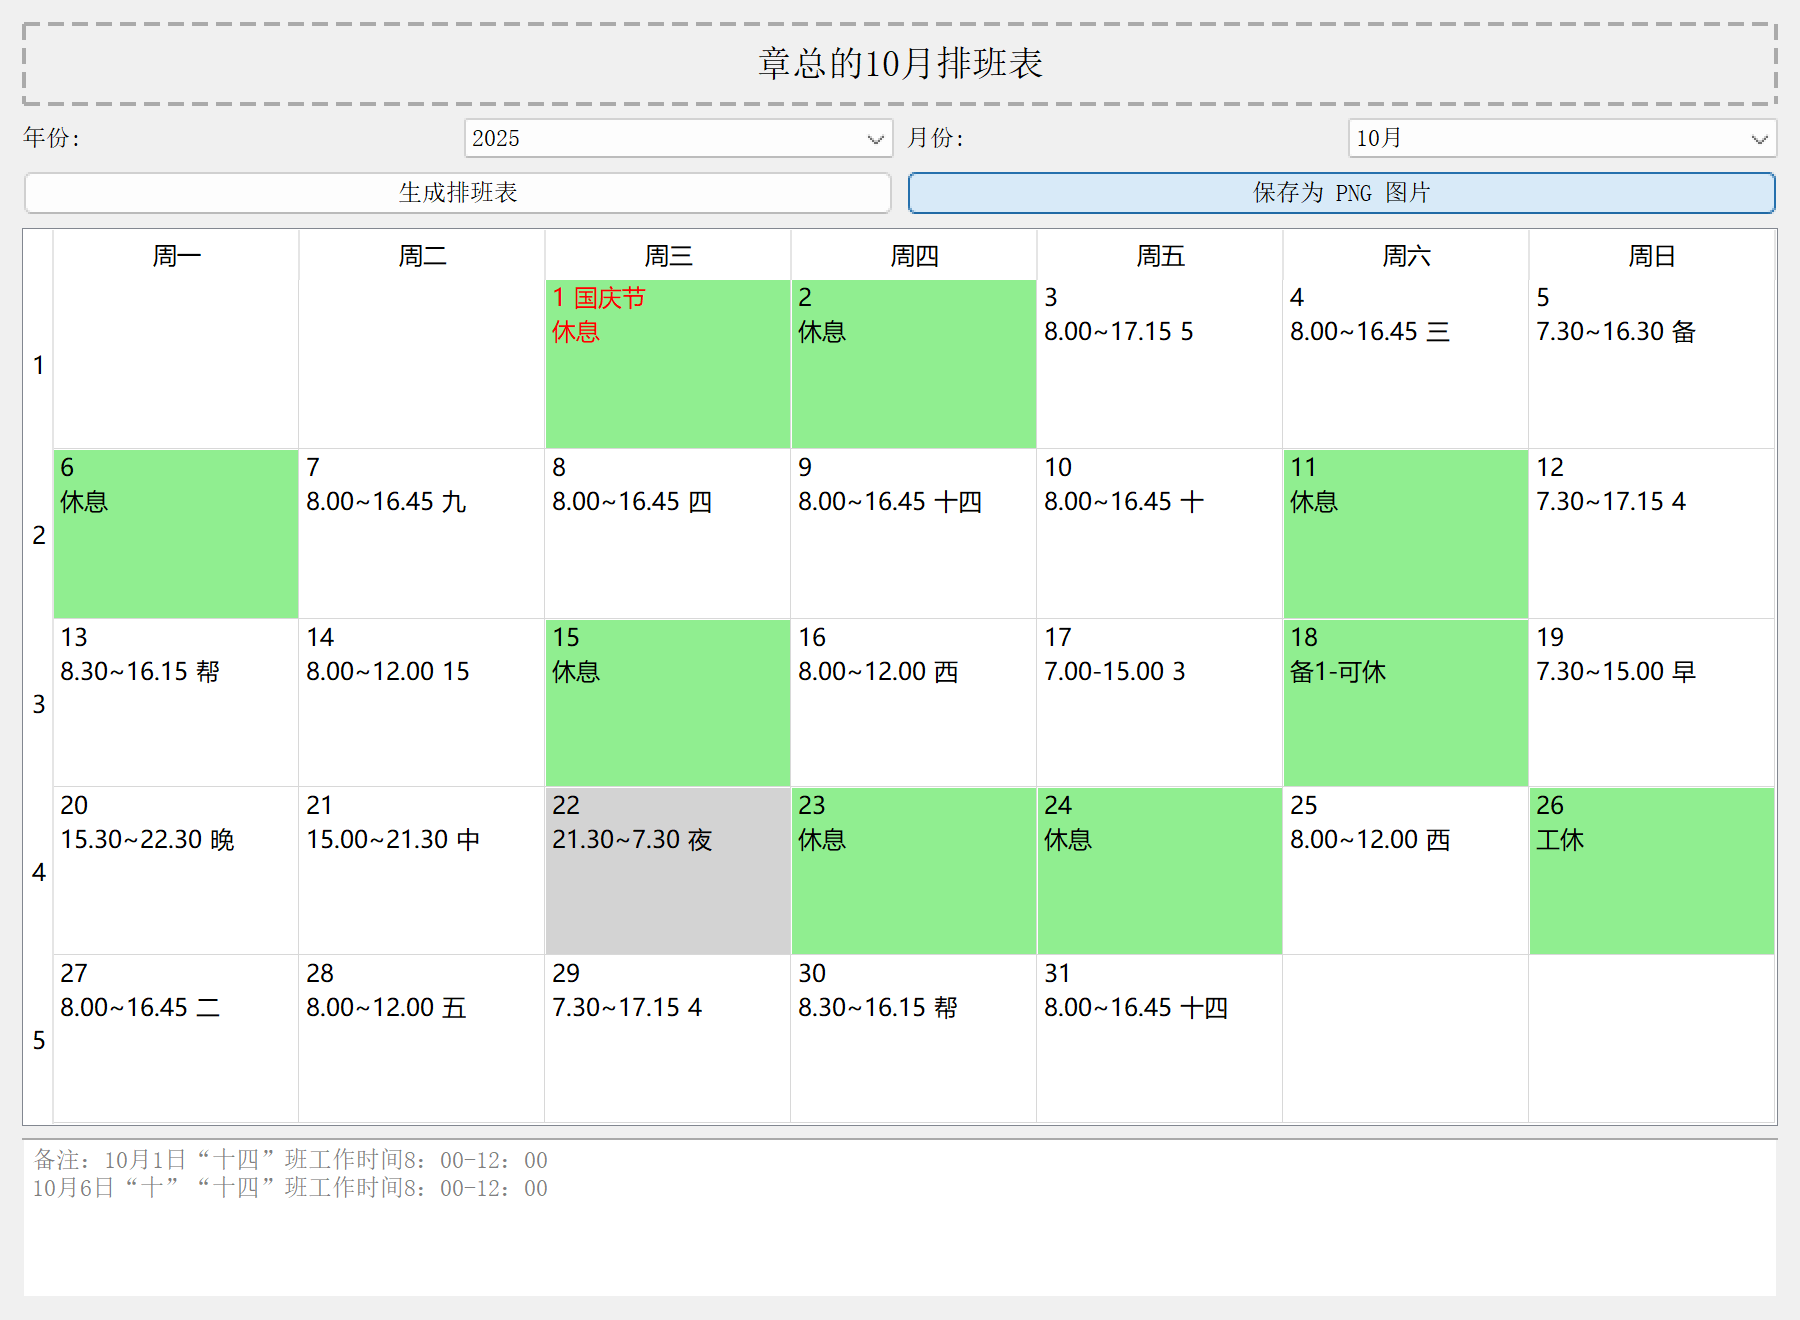
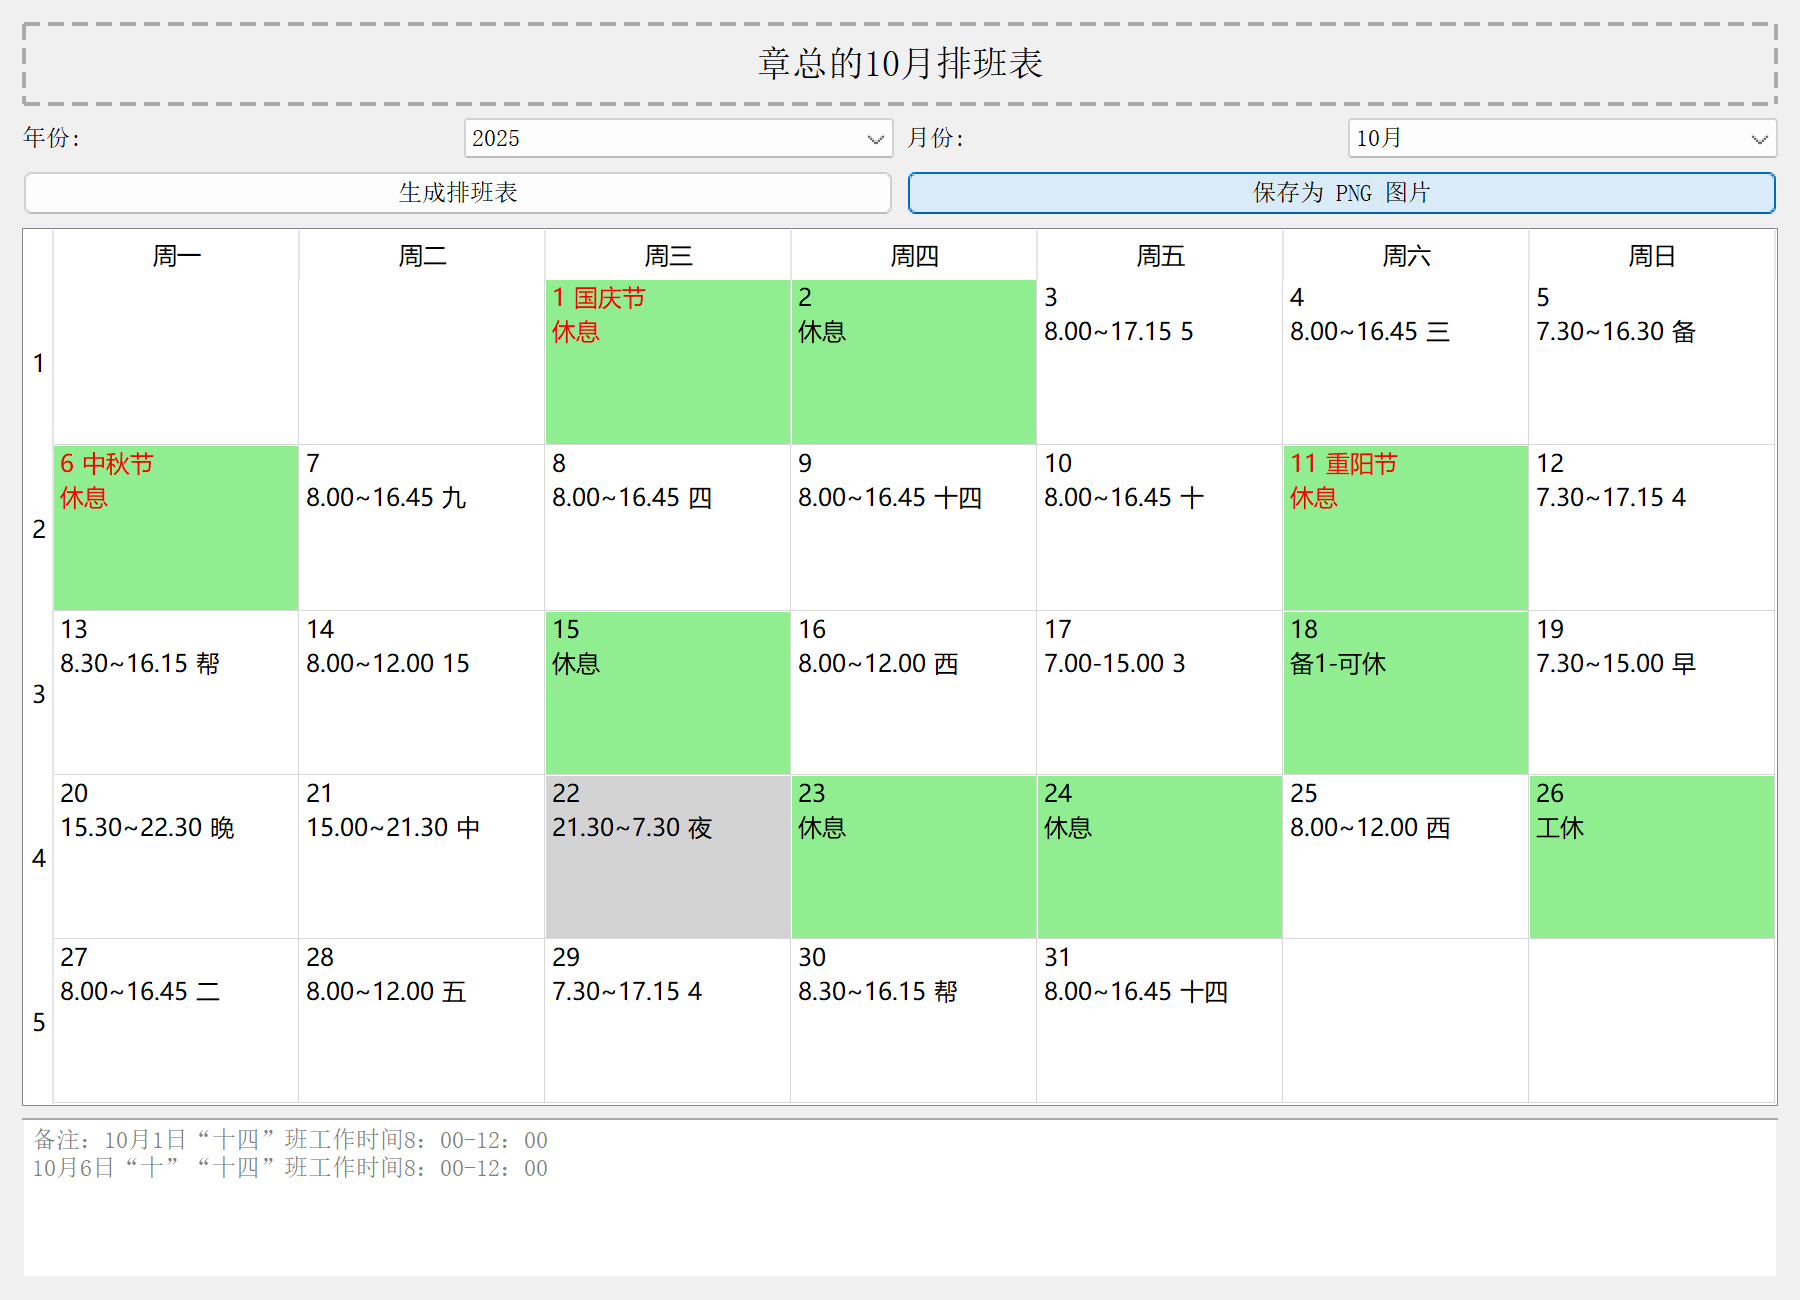
v1.4.1 修正中秋节日期不对问题 扩展至于28年的节日

diff --git a/convertExcel2txt.py b/convertExcel2txt.py
@@ -21,17 +21,67 @@ replace_rules = [
     ('休', '休息'), ('工', '工休')
 ]
 HOLIDAY_DICT = {
+    # 2025年（闰六月）
     "2025-01-01": "元旦",
-    "2025-02-11": "春节",
-    "2025-02-12": "春节",
-    "2025-02-13": "春节",
+    "2025-02-08": "小年",
+    "2025-02-09": "除夕",
+    "2025-02-10": "春节",
+    "2025-02-24": "元宵节",
     "2025-04-05": "清明节",
     "2025-05-01": "劳动节",
     "2025-06-22": "端午节",
-    "2025-09-17": "中秋节",
+    "2025-08-22": "七夕节",
+    "2025-10-06": "中秋节",
+    "2025-10-11": "重阳节",
     "2025-10-01": "国庆节",
-    # 后续节日可以按同样格式添加
+    "2025-12-22": "冬至",
+
+    # 2026年
+    "2026-01-01": "元旦",
+    "2026-01-28": "小年",
+    "2026-01-29": "除夕",
+    "2026-01-30": "春节",
+    "2026-02-13": "元宵节",
+    "2026-04-05": "清明节",
+    "2026-05-01": "劳动节",
+    "2026-06-14": "端午节",
+    "2026-08-11": "七夕节",
+    "2026-09-10": "中秋节",
+    "2026-10-01": "国庆节",
+    "2026-10-31": "重阳节",
+    "2026-12-21": "冬至",
+
+    # 2027年
+    "2027-01-01": "元旦",
+    "2027-02-16": "小年",
+    "2027-02-17": "除夕",
+    "2027-02-18": "春节",
+    "2027-03-04": "元宵节",
+    "2027-04-05": "清明节",
+    "2027-05-01": "劳动节",
+    "2027-06-05": "端午节",
+    "2027-07-31": "七夕节",
+    "2027-09-30": "中秋节",
+    "2027-10-01": "国庆节",
+    "2027-10-20": "重阳节",
+    "2027-12-21": "冬至",
+
+    # 2028年
+    "2028-01-01": "元旦",
+    "2028-02-04": "小年",
+    "2028-02-05": "除夕",
+    "2028-02-06": "春节",
+    "2028-02-22": "元宵节",
+    "2028-04-05": "清明节",
+    "2028-05-01": "劳动节",
+    "2028-06-22": "端午节",
+    "2028-08-19": "七夕节",
+    "2028-09-18": "中秋节",
+    "2028-10-01": "国庆节",
+    "2028-10-08": "重阳节",
+    "2028-12-21": "冬至"
 }
+
 def generate_txt(files, month):
     if not files:
         return None
@@ -333,4 +383,4 @@ if __name__ == "__main__":
     sys.exit(app.exec_())
 
 # ------------------- 版本号 -------------------
-APP_VERSION = "V1.3.1"
+APP_VERSION = "V1.4.1"
